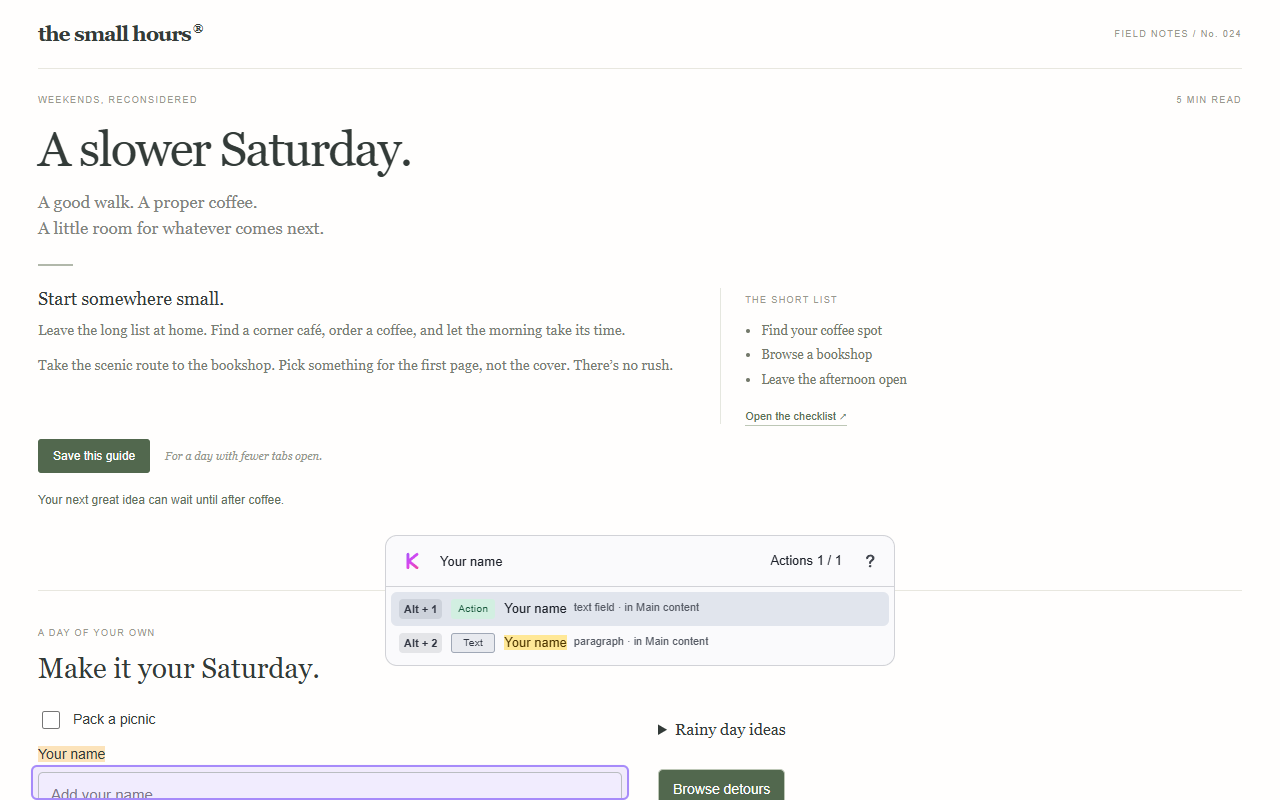
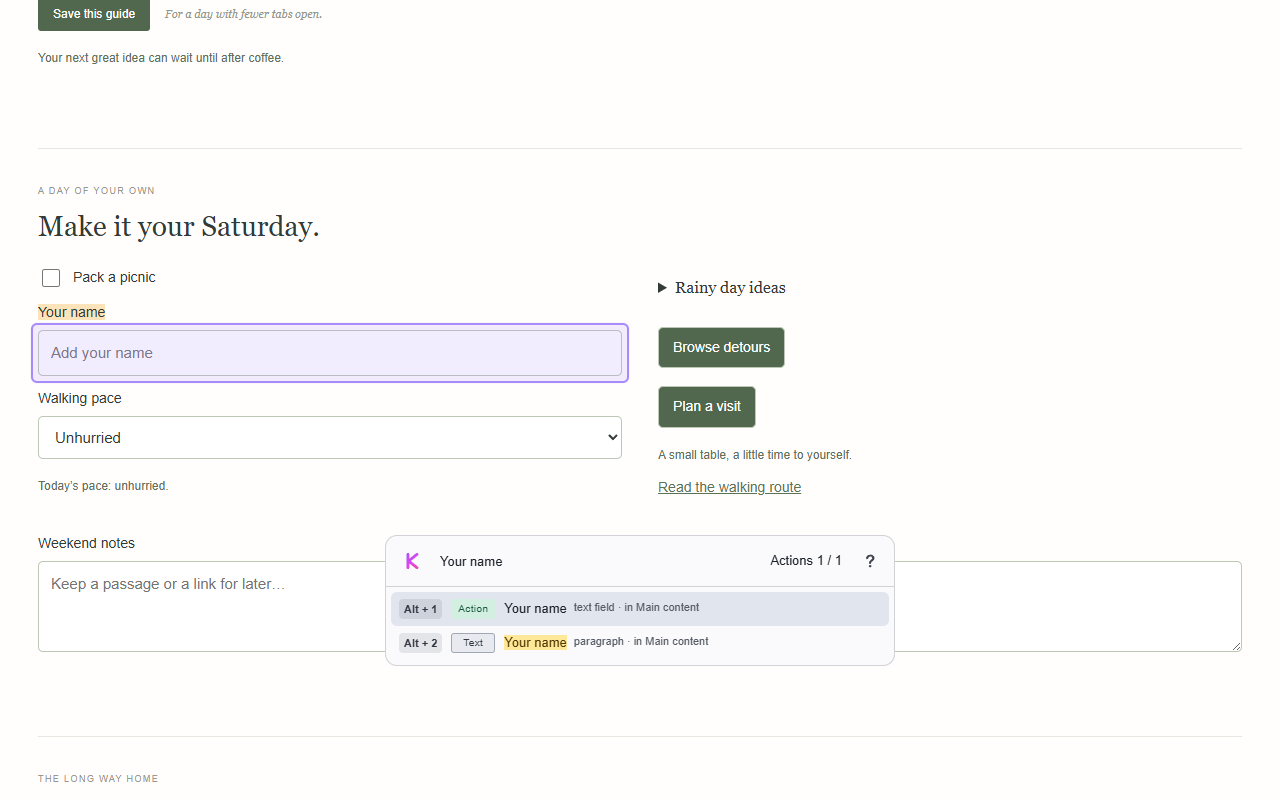
Center store promo artwork and capture the complete selected field

diff --git a/assets/store-listings/README.md b/assets/store-listings/README.md
@@ -13,3 +13,6 @@ To refresh the Chromium captures, build the extension with `yarn build:chromium`
 It opens a dedicated temporary browser profile, uses the installed extension, and converts
 captures to RGB PNGs with ImageMagick. It refreshes the images and verification metadata,
 preserving the description and upload instructions. Intermediate files stay in `.artifacts/`.
+
+To refresh only selected images, pass their names without `.png`, for example:
+`node assets/store-listings/generate.mjs small-promo-tile 05-form-controls`.
